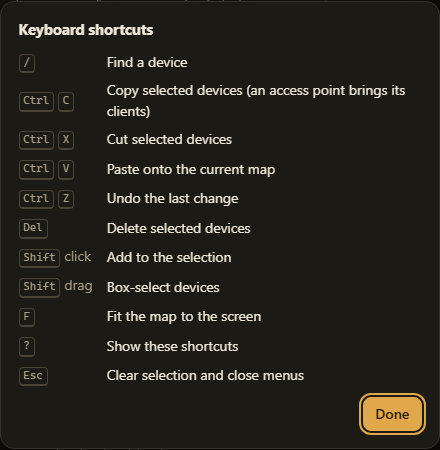
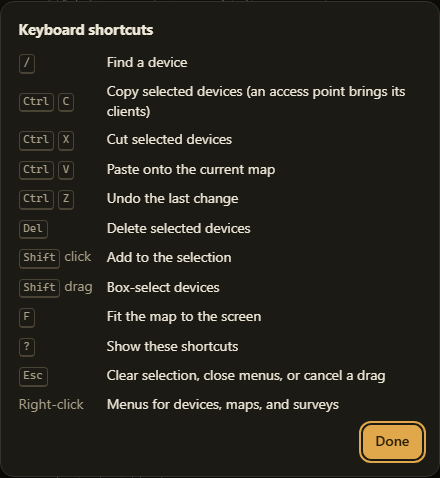
Tour and shortcuts cover the sidebar menus, dragging, and SSIDs
- New tour step, Organize the sidebar: right-click menus, drag to reorder or
  merge, resize the edge. The map step mentions SSIDs under access points.
- Shortcuts: Esc cancels a drag; right-click opens menus.
- User guide and How-to: ten tour steps; screenshots regenerated.

diff --git a/src/netseer/web/app.js b/src/netseer/web/app.js
@@ -3723,7 +3723,12 @@ const TOUR_STEPS = [
   },
   { target: "#btn-open", title: "Open a survey", text: "Open .pcap, .pcapng, .cap, .netxml, or .csv files, or drop them anywhere on the window. Each capture becomes its own map." },
   { target: "#sidebar .tabs", title: "Maps, Surveys, and Layers", text: "Maps lists everything you've made. Surveys holds the captures you've opened. Layers picks which kinds of links are drawn." },
-  { target: "#map", title: "The map", text: "Drag devices to rearrange them and scroll to zoom. Hover a device to see what it connects to. Shift-drag to select several." },
+  {
+    target: "#sidebar",
+    title: "Organize the sidebar",
+    text: "Right-click a map or survey to rename, merge, remove, or delete it. Drag rows to reorder them, or drop one onto a map to merge it. Drag the sidebar's edge to make it wider.",
+  },
+  { target: "#map", title: "The map", text: "Drag devices to rearrange them and scroll to zoom. Access points show their Wi-Fi network (SSID) under their name. Hover a device to see what it connects to." },
   { target: ".search", title: "Find a device", text: "Search by name, IP, MAC, SSID, maker, or notes. Press / to jump here from anywhere." },
   {
     target: "#inspector",

diff --git a/src/netseer/web/index.html b/src/netseer/web/index.html
@@ -298,7 +298,8 @@
           <dt><kbd>Shift</kbd> drag</dt><dd>Box-select devices</dd>
           <dt><kbd>F</kbd></dt><dd>Fit the map to the screen</dd>
           <dt><kbd>?</kbd></dt><dd>Show these shortcuts</dd>
-          <dt><kbd>Esc</kbd></dt><dd>Clear selection and close menus</dd>
+          <dt><kbd>Esc</kbd></dt><dd>Clear selection, close menus, or cancel a drag</dd>
+          <dt>Right-click</dt><dd>Menus for devices, maps, and surveys</dd>
         </dl>
         <div class="row-actions end"><button class="btn primary" value="close">Done</button></div>
       </form>
@@ -484,6 +485,6 @@
       </div>
     </div>
 
-    <script src="/static/app.js?v=ui10"></script>
+    <script src="/static/app.js?v=ui11"></script>
   </body>
 </html>

diff --git a/docs/screenshots.py b/docs/screenshots.py
@@ -327,7 +327,7 @@ def capture(url: str, channel: str | None) -> list[str]:
         shots.save("settings-about", selectors=["#settings-dialog"], pad=0)
         page.click('.settings-nav [data-pane="help"]')
         page.click("#help-tour")
-        for _ in range(5):
+        for _ in range(6):
             page.keyboard.press("ArrowRight")
         page.wait_for_timeout(400)
         shots.save("tour", full=True)

diff --git a/docs/user-guide.md b/docs/user-guide.md
@@ -204,7 +204,8 @@ Press `?`, or open **Settings** → **Help** → **Keyboard shortcuts**, to see 
 | Shift + click, Shift + drag | Add to the selection, box-select |
 | `F` | Fit the map to the screen |
 | `?` | Show the shortcuts |
-| Esc | Close menus and clear the selection |
+| Esc | Close menus, clear the selection, or cancel a drag |
+| Right-click | Menus for devices, maps, and surveys |
 
 ## Settings, updates, and the tour
 
@@ -267,9 +268,9 @@ Versions before 0.4.0 can't update themselves. If you go back to one, download l
 
 ### The tour
 
-On your first visit NetSeer offers a one-minute tour. You can start it any time from **Settings** → **Help** → **Take the tour**. It highlights each part of the screen in turn: opening surveys, the sidebar, the map, search, details, export, themes, and settings. Use **Next** and **Back** or the arrow keys. **Skip tour** or Esc ends it.
+On your first visit NetSeer offers a one-minute tour. You can start it any time from **Settings** → **Help** → **Take the tour**. It highlights each part of the screen in turn: opening surveys, the sidebar and how to organize it, the map, search, details, export, themes, and settings. Use **Next** and **Back** or the arrow keys. **Skip tour** or Esc ends it.
 
-![The tour highlighting the details panel, with step 6 of 9 explaining what it shows](images/tour.png)
+![The tour highlighting the details panel, with step 7 of 10 explaining what it shows](images/tour.png)
 
 ## Where your work is saved
 

diff --git a/docs/netseer-how-to.md b/docs/netseer-how-to.md
@@ -52,7 +52,7 @@ The **cog** in the top bar. A dot on it means a newer release is out.
 
 Checking for updates is the only time NetSeer goes online: it reads the public release list from `api.github.com`. Nothing about you or your maps is sent.
 
-**The tour** is offered once on the first visit, and from **Help** → **Take the tour** any time after. Nine steps; **Next**/**Back** or the arrow keys, and **Skip tour** or Esc to stop.
+**The tour** is offered once on the first visit, and from **Help** → **Take the tour** any time after. Ten steps; **Next**/**Back** or the arrow keys, and **Skip tour** or Esc to stop.
 
 ---
 
@@ -233,7 +233,8 @@ NetSeer remembers your choices for next time (the selection itself isn't remembe
 | Delete / Backspace | Delete selected devices |
 | `F` | Fit to screen |
 | `?` | Show shortcuts |
-| Esc | Close menus, clear the selection |
+| Esc | Close menus, clear the selection, cancel a drag |
+| Right-click | Menus for devices, maps, and surveys |
 
 ---
 
